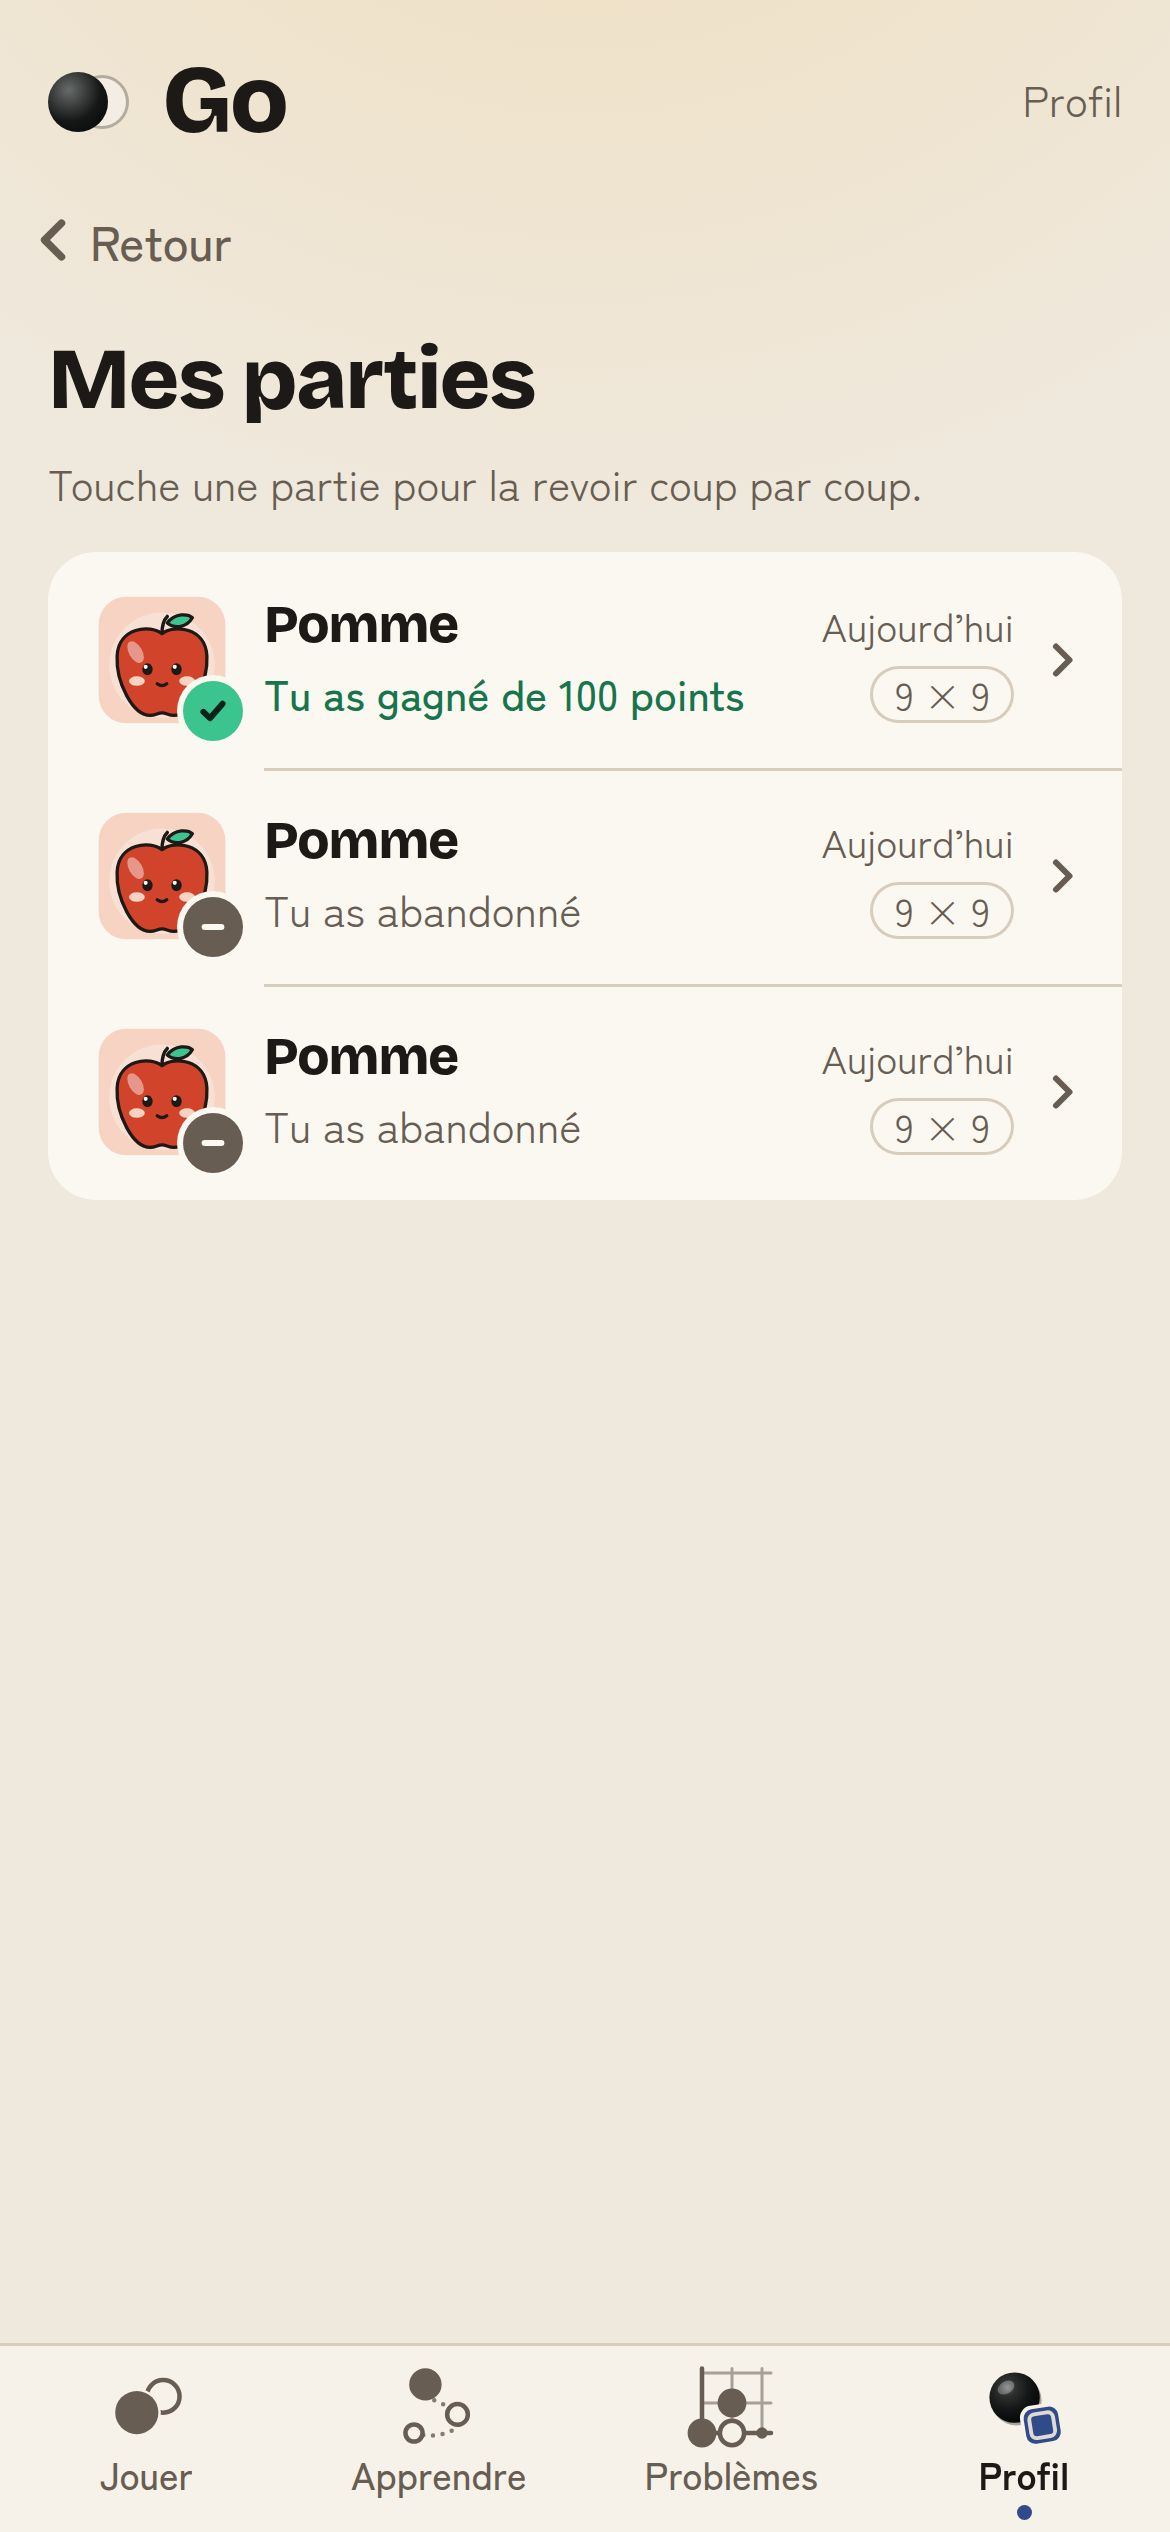
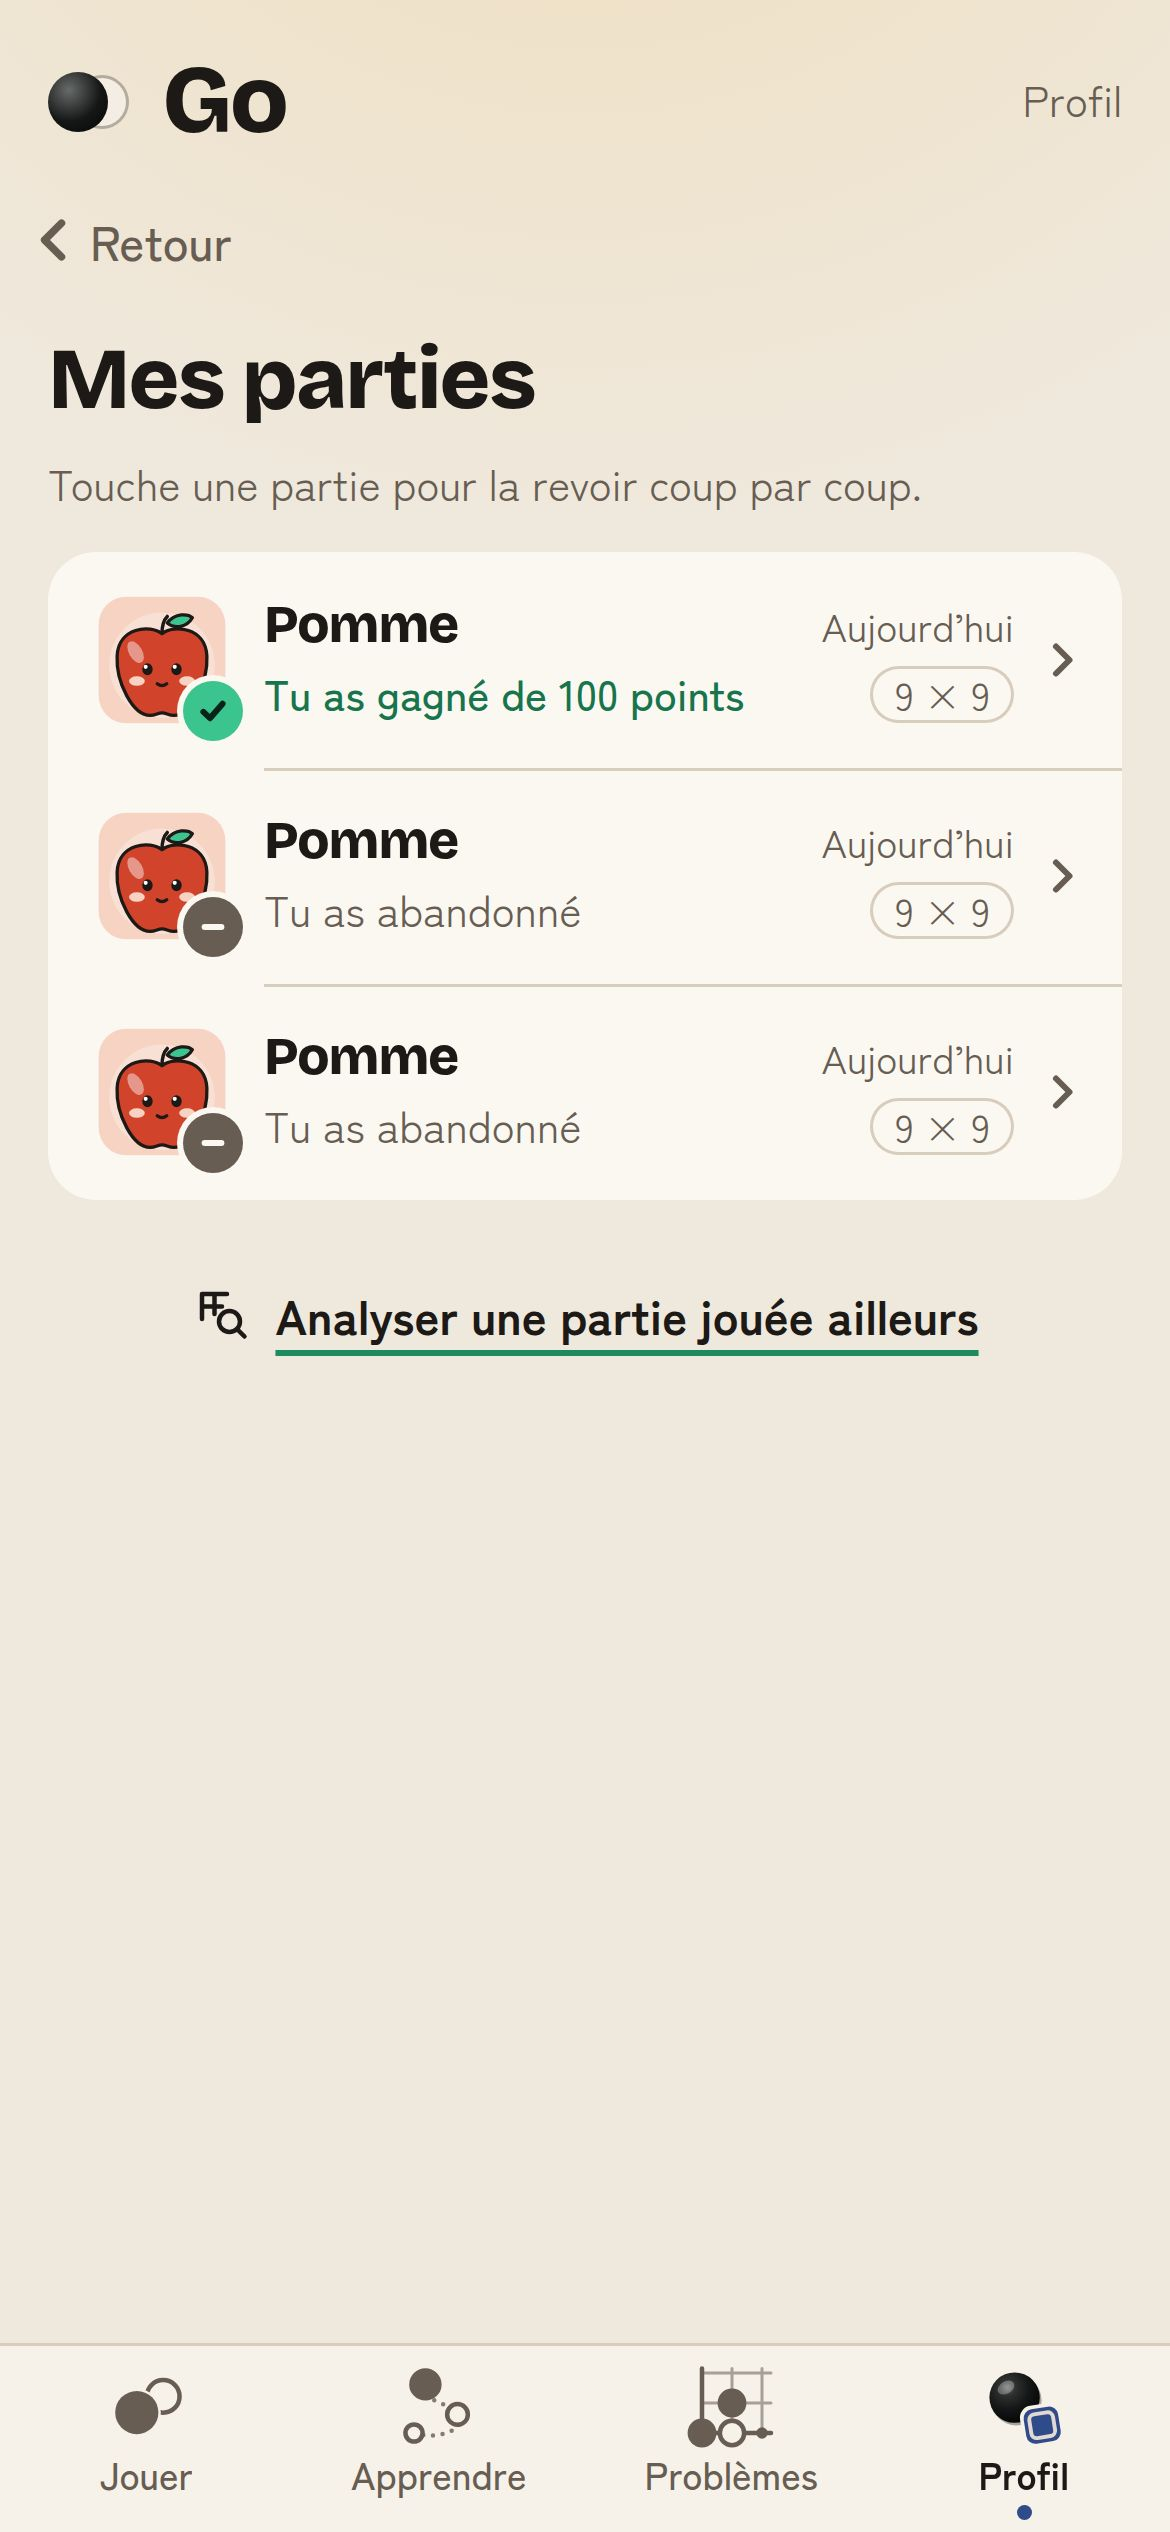
#358 « Analyser une partie » rejoint « Mes parties » : le Profil tient toujours sans défiler
Claude-Session: https://claude.ai/code/session_01MBh4E5pGWe9HRzjpTV2rVx

Changed region(s): [[0.2462, 0.4992, 0.8308, 0.5304], [0.1538, 0.4992, 0.2154, 0.5304]]

diff --git a/src/app/Profil.tsx b/src/app/Profil.tsx
@@ -111,10 +111,11 @@ function SousVue({ id, titre, onRetour, children }: { id: string; titre: string;
 export function Profil({ vue, onVue, settings, set, profil, serie, record = 0, parcours, placement, onPlacement, onJouer, db, userId }: Props) {
   const retour = () => { onVue('menu'); window.scrollTo({ top: 0 }); };
   // #358 : toutes les parties terminées, et leur revue.
-  if (vue === 'parties') return <MesParties onRetour={retour} onJouer={onJouer ?? retour} db={db} userId={userId} confirmTouch={settings.confirmTouch} />;
+  // #286 : « Analyser une partie » est dans « Mes parties » depuis #358 (le Profil tient sans défiler) ; on y revient.
+  if (vue === 'parties') return <MesParties onRetour={retour} onJouer={onJouer ?? retour} onImporter={() => onVue('importer')} db={db} userId={userId} confirmTouch={settings.confirmTouch} />;
   if (vue === 'conditions') return <Conditions onRetour={retour} />;
   // #286 : analyser une partie jouée ailleurs (SGF), action secondaire du Profil.
-  if (vue === 'importer') return <ImportSgf onRetour={retour} pseudo={profil?.pseudo} confirmTouch={settings.confirmTouch} />;
+  if (vue === 'importer') return <ImportSgf onRetour={() => { onVue('parties'); window.scrollTo({ top: 0 }); }} pseudo={profil?.pseudo} confirmTouch={settings.confirmTouch} />;
   if (vue === 'compte') return <SousVue id="compte-titre" titre={t('profil.compte')} onRetour={retour}><Account /></SousVue>;
   if (vue === 'reglages') return <SousVue id="reglages-titre" titre={t('profil.reglages')} onRetour={retour}><Reglages settings={settings} set={set} /></SousVue>;
   if (vue === 'rappel') {
@@ -166,7 +167,7 @@ function Menu({ onVue, profil, serie, record = 0, parcours, placement, onPlaceme
       <VitrineBadges liste={donnees.badges} nouveaux={donnees.nouveaux} />
 
       <div className="lignes">
-        {/* #358 : tes parties passées, en tête : c'est la ligne qu'on rouvre le plus. */}
+        {/* #358 : tes parties passées, en tête : c'est la ligne qu'on rouvre le plus. « Analyser une partie » (#286) y est. */}
         <LigneLien icone={<IconeReglage id="parties" />} libelle={t('historique.titre')}
           valeur={nParties ? t('historique.profilResume', { n: nParties }) : userId ? undefined : t('historique.profilVide')} onClick={() => onVue('parties')} />
         {/* #283 : le kyu estimé ne s'affiche qu'ici, sur une ligne, avec sa date ; la ligne relance le placement. */}
@@ -174,7 +175,6 @@ function Menu({ onVue, profil, serie, record = 0, parcours, placement, onPlaceme
           ? <LigneLien icone={<IconeReglage id="placement" />} libelle={t('placement.profil')} valeur={t('placement.profilValeur', { kyu: placement.kyu, date: dateCourte(placement.date) })} onClick={onPlacement} />
           : <LigneLien icone={<IconeReglage id="placement" />} libelle={t(placement?.fait ? 'placement.profilRefaire' : 'placement.profilFaire')} onClick={onPlacement} />)}
         <LigneLien icone={<IconeReglage id="reglages" />} libelle={t('profil.reglages')} valeur={t('profil.reglagesResume')} onClick={() => onVue('reglages')} />
-        <LigneLien icone={<IconeReglage id="importer" />} libelle={t('profil.importer')} valeur={t('profil.importerResume')} onClick={() => onVue('importer')} />
         {/* #36 : rappel du Go du jour, dès que le rappel est configuré (clé publique VAPID). */}
         {clePubliqueVapid() !== '' && <LigneLien icone={<IconeReglage id="rappel" />} libelle={t('profil.rappel')} valeur={resumeRappel()} onClick={() => onVue('rappel')} />}
         {proposerInstallation && <LigneLien icone={<IconeReglage id="installer" />} libelle={t('profil.installer')} onClick={() => onVue('installer')} />}

diff --git a/src/app/MesParties.tsx b/src/app/MesParties.tsx
@@ -14,6 +14,7 @@ import { mesDefis } from '../data/defi';
 import type { Db } from '../data/supabase';
 import { Portrait, PortraitMochi } from '../ui/Portrait';
 import { Reflexion } from '../ui/Reflexion';
+import { IconeReglage } from '../ui/IconesReglages';
 import { fr } from '../ui/typo';
 import { t } from '../content/i18n';
 import '../ui/historique.css';
@@ -27,6 +28,8 @@ interface Props {
   onRetour: () => void;
   /** État vide : « Joue ta première partie ». */
   onJouer: () => void;
+  /** « Analyser une partie jouée ailleurs » (#286) : action secondaire, en bas de la liste. */
+  onImporter?: () => void;
   /** Client Supabase et identifiant de session : défis par lien terminés. Sans eux, l'appareil seulement. */
   db?: Db | null;
   userId?: string;
@@ -60,7 +63,7 @@ function SceauIssue({ p }: { p: PartieHistorique }) {
   );
 }
 
-export function MesParties({ onRetour, onJouer, db = null, userId, confirmTouch = false }: Props) {
+export function MesParties({ onRetour, onJouer, onImporter, db = null, userId, confirmTouch = false }: Props) {
   const [appareil] = useState(historiqueAppareil);
   const [defis, setDefis] = useState<PartieHistorique[]>([]);
   const [etat, setEtat] = useState<EtatDefis>(db && userId ? 'chargement' : 'sans');
@@ -99,6 +102,11 @@ export function MesParties({ onRetour, onJouer, db = null, userId, confirmTouch 
     );
   }
 
+  const importer = onImporter && (
+    <button type="button" className="lien mp-parties-importer" onClick={onImporter}>
+      <IconeReglage id="importer" taille={20} />{t('historique.importer')}
+    </button>
+  );
   const statut = etat === 'chargement' ? t('defi.historique.chargement') : etat === 'hors-ligne' ? t('defi.historique.horsLigne') : etat === 'erreur' ? t('defi.historique.erreur') : null;
 
   return (
@@ -114,6 +122,7 @@ export function MesParties({ onRetour, onJouer, db = null, userId, confirmTouch 
           <h3>{t('historique.vide.titre')}</h3>
           <p>{fr(t('historique.vide.texte'))}</p>
           {statut && <p className="mp-parties-statut" role="status">{fr(statut)}</p>}
+          {importer}
           <div className="dock">
             <button type="button" className="cta" onClick={onJouer}>{t('historique.vide.cta')}</button>
           </div>
@@ -147,6 +156,7 @@ export function MesParties({ onRetour, onJouer, db = null, userId, confirmTouch 
           {statut && (
             <p className="mp-parties-statut" role="status">{etat === 'chargement' && <Reflexion taille={20} />}{fr(statut)}</p>
           )}
+          {importer}
         </>
       )}
     </section>

diff --git a/e2e/audit-visuel.spec.ts b/e2e/audit-visuel.spec.ts
@@ -150,7 +150,7 @@ const T = {
   reprendre: /^(Reprendre la leçon|Resume the lesson)/, tous: /^(Tous les problèmes|All puzzles)$/, probleme: /^(Problème|Puzzle) \d+/,
   cestParti: /^(C’est parti|Start)$/, saisJouer: /^(Je sais déjà jouer|I already know how to play)$/, passerPlacement: /^(Passer le placement|Skip the placement)$/,
   reglages: /^(Réglages|Settings)/, compte: /^(Mon compte|My account)/, conditions: /^(Conditions et confidentialité|Terms and privacy)$/,
-  importer: /^(Analyser une partie|Analyze a game)/, lire: /^(Lire la partie|Read the game)$/, retour: /^(Retour|Back)$/,
+  importer: /^(Analyser une partie|Analyze a game)/, parties: /^(Mes parties|My games)/, lire: /^(Lire la partie|Read the game)$/, retour: /^(Retour|Back)$/,
   defier: /^(Défier un ami|Challenge a friend)/, envoyerLien: /^(Envoyer un lien|Send a link)$/, recevoirCode: /^(Recevoir mon code|Get my code)$/,
   dejaCompte: /^(J’ai déjà un compte|I already have an account)$/, creerCompte: /^(Créer un compte|Create an account)$/,
   monPseudo: /^(C’est mon pseudo|That’s my username)$/, pseudo: /^(Pseudo|Username)$/, email: /^(Ton adresse e-mail|Your email address)$/,
@@ -361,6 +361,7 @@ for (const cfg of CONFIGS) {
       await cap('20-conditions');
       await cap('20b-conditions-page', { pleine: true });
       await page.getByRole('button', { name: T.retour }).click();
+      await page.getByRole('button', { name: T.parties }).click(); // #358 : l'import est dans « Mes parties »
       await page.getByRole('button', { name: T.importer }).click();
       await expect(page.getByRole('button', { name: T.lire })).toBeVisible();
       await cap('21-import');

diff --git a/src/ui/historique.css b/src/ui/historique.css
@@ -65,3 +65,8 @@
 .mp-parties-vide h3 { margin: var(--space-3) 0 0; font-family: var(--font-titre); font-weight: var(--fw-titre); font-size: var(--fs-xl); letter-spacing: var(--tracking-titre); }
 .mp-parties-vide p { margin: 0; max-width: 30ch; color: var(--muted); line-height: var(--lh-base); }
 .mp-parties-vide .mp-parties-statut { margin-top: var(--space-2); }
+
+/* « Analyser une partie jouée ailleurs » (#286) : lien secondaire sous la liste, 44 px de haut. */
+.mp-parties-importer { display: flex; align-items: center; justify-content: center; gap: var(--space-2); width: 100%; min-height: var(--cible-min); margin-top: var(--space-4); }
+.mp-parties-importer .icone-reglage { flex: none; }
+.mp-parties-vide .mp-parties-importer { margin-top: var(--space-2); }

diff --git a/e2e/import-sgf.spec.ts b/e2e/import-sgf.spec.ts
@@ -50,6 +50,8 @@ C[florian_go: bonne partie !]
 async function ouvrirImport(page: Page) {
   await page.goto('/');
   await page.getByRole('button', { name: 'Profil' }).click();
+  // #358 : « Analyser une partie » est dans « Mes parties ».
+  await page.getByRole('button', { name: /^Mes parties/ }).click();
   await page.getByRole('button', { name: /Analyser une partie/ }).click();
   await expect(page.getByRole('heading', { level: 2, name: 'Analyser une partie' })).toBeVisible();
 }

diff --git a/src/content/i18n/fr.ts b/src/content/i18n/fr.ts
@@ -1131,6 +1131,7 @@ export const fr = {
   'historique.resultat.campTemps': '{camp} gagne au temps',
   'historique.resultat.egalite': 'Égalité parfaite',
   'historique.resultat.inconnu': 'Résultat inconnu',
+  'historique.importer': 'Analyser une partie jouée ailleurs',
   'historique.aDeux': 'Partie à deux',
   'historique.ordi': 'L’ordi',
   'historique.importee': 'Partie importée',

diff --git a/src/content/i18n/en.ts b/src/content/i18n/en.ts
@@ -1073,6 +1073,7 @@ export const en = {
   'historique.resultat.campTemps': '{camp} won on time',
   'historique.resultat.egalite': 'A perfect draw',
   'historique.resultat.inconnu': 'Result unknown',
+  'historique.importer': 'Analyze a game played elsewhere',
   'historique.aDeux': 'Two-player game',
   'historique.ordi': 'Computer',
   'historique.importee': 'Imported game',
